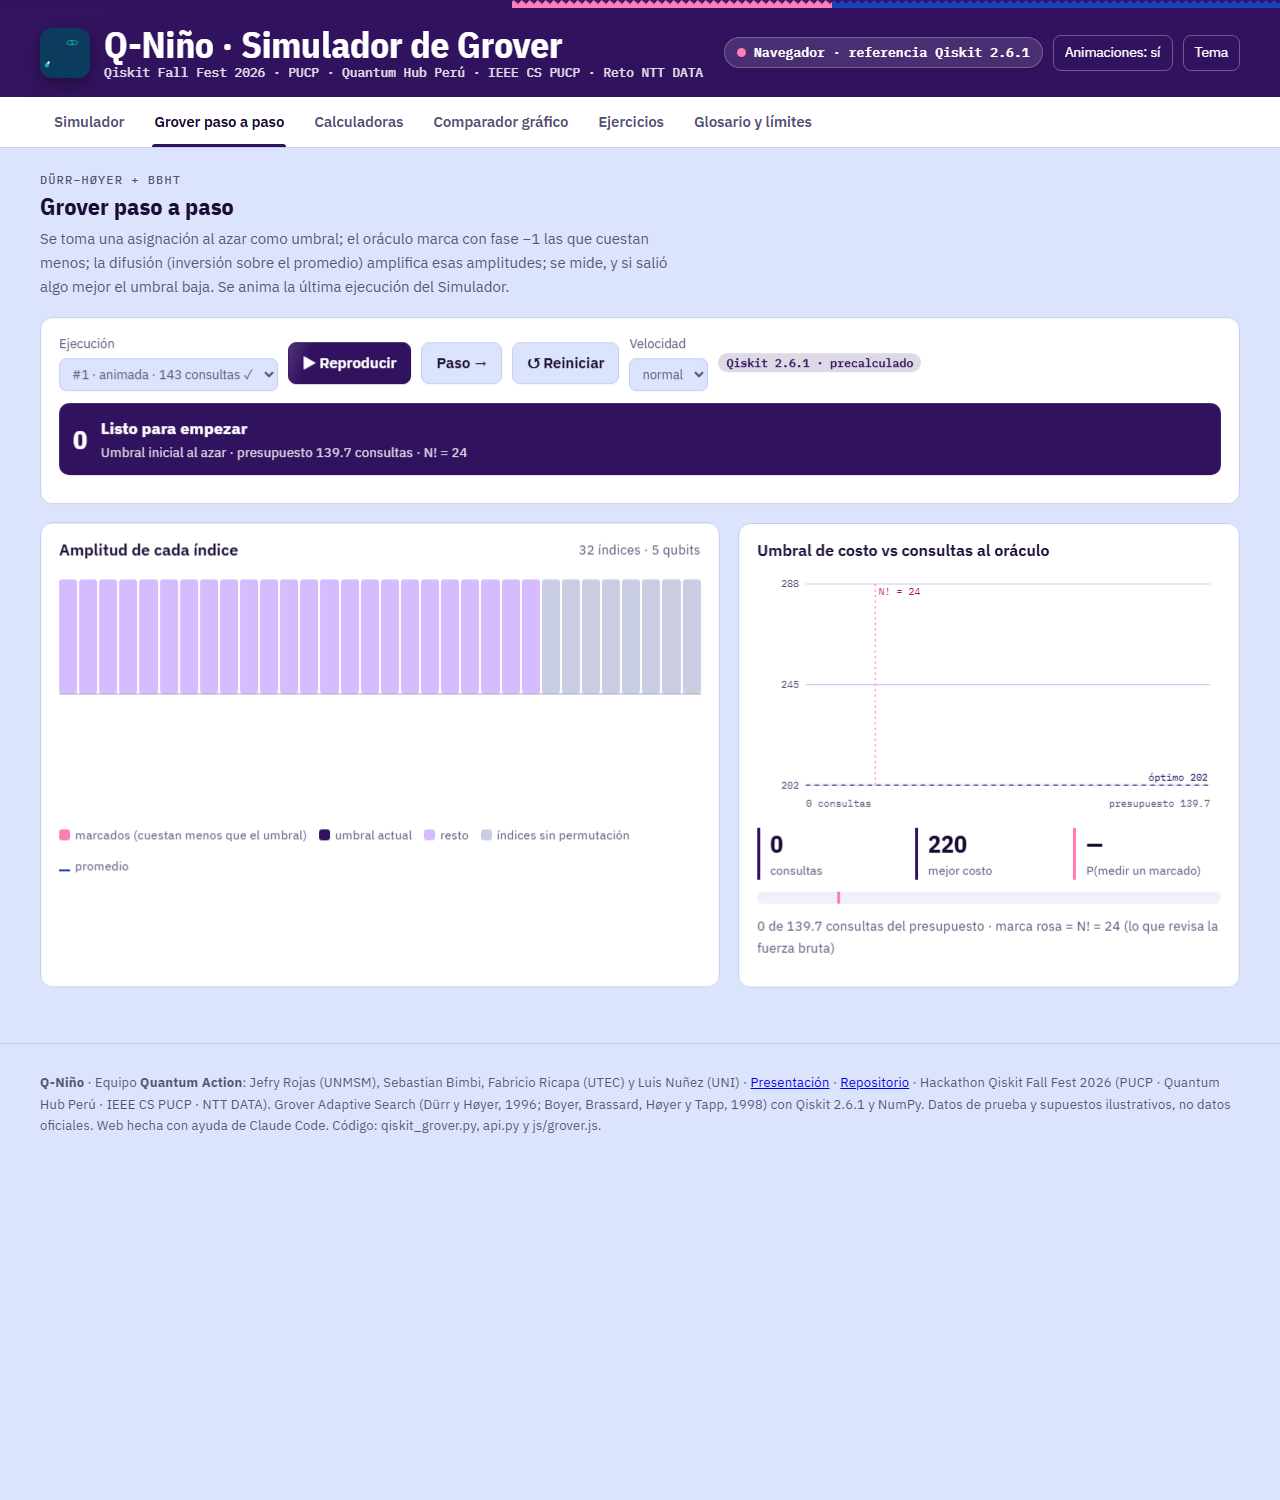
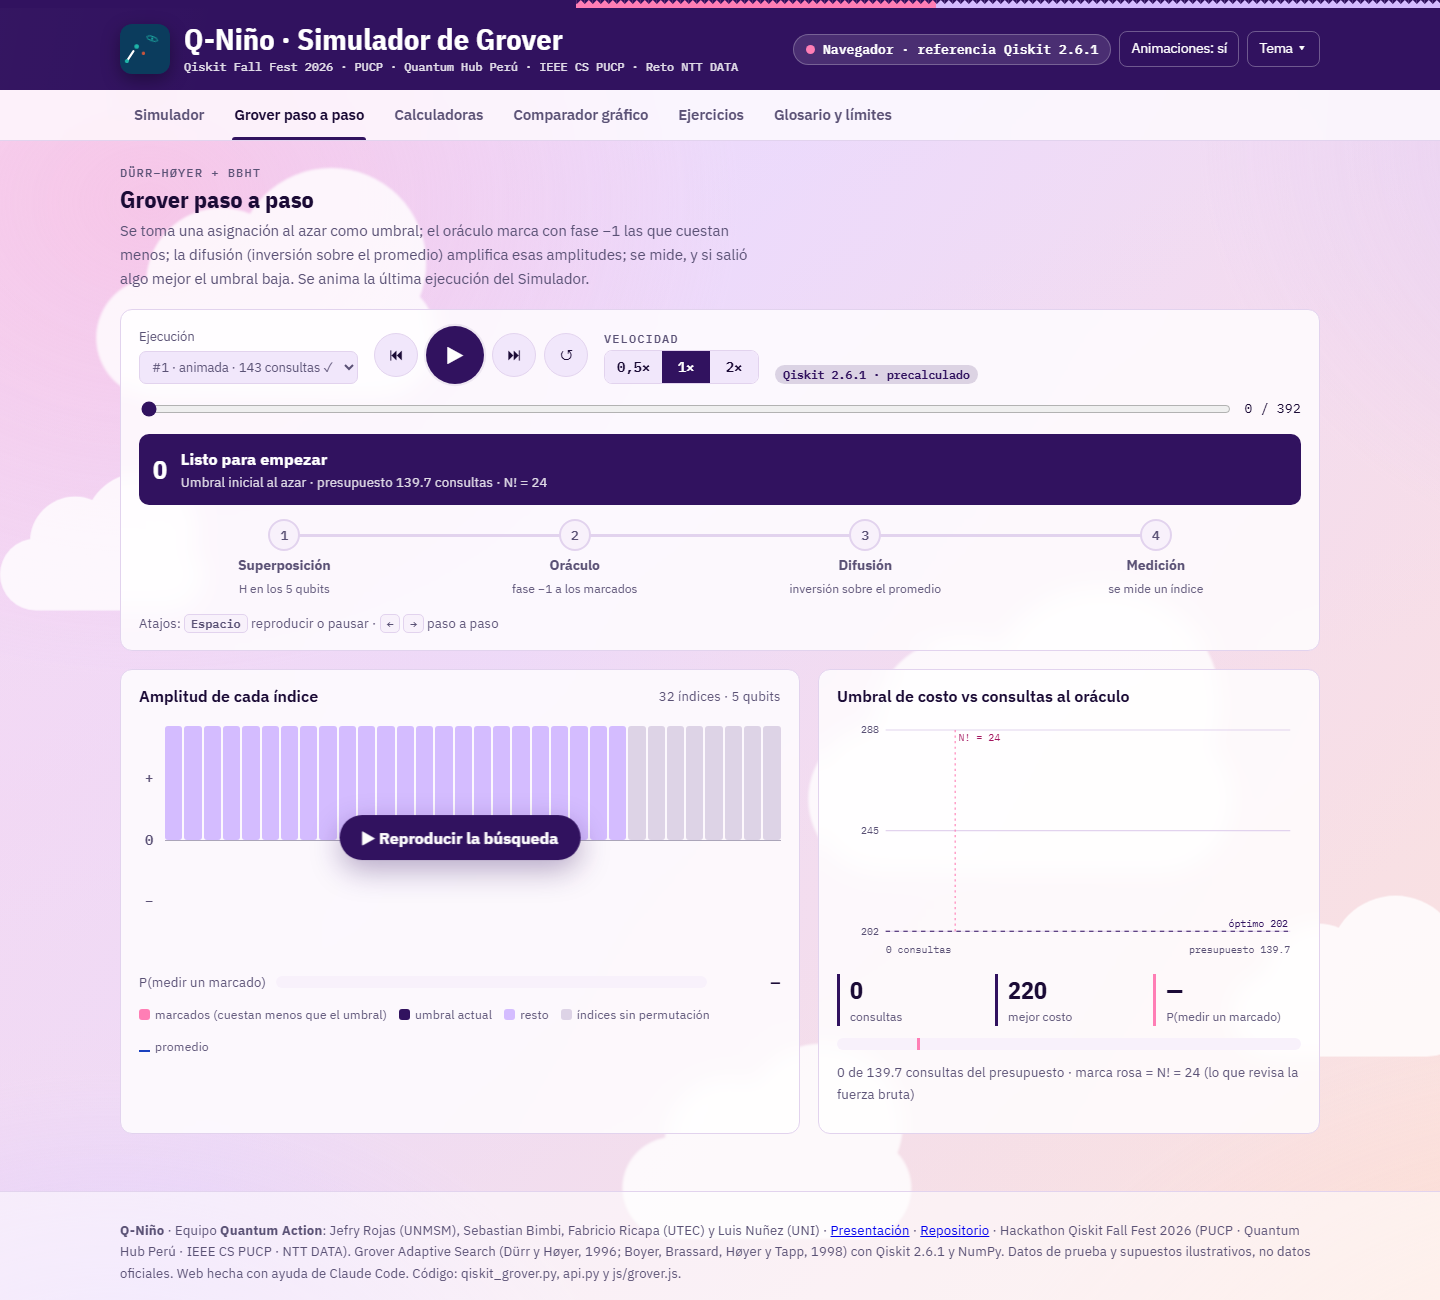
README: capturas y descripción del diseño nuevo

diff --git a/README.md b/README.md
@@ -277,14 +277,16 @@ Qiskit 2.6.1, semilla 42, 10 ejecuciones por N y sin parada anticipada:
 
 | Sección | Qué permite |
 |---|---|
-| **Simulador** | Sin escribir nada: elegir N (3–6), brigadas y zonas de listas, y ajustar cada celda de F y D con un deslizador o atajos (Baja, Media, Alta). D se puede estimar desde el mapa. Semilla y repeticiones también se eligen de listas. Cada cambio frente a los datos cargados se marca en rosa y se registra («F[Médica, Rescate]: 9 → 14»). Muestra el resultado, el mapa de la costa y los pasos de la solución |
-| **Grover paso a paso** | Anima cada etapa (superposición → oráculo → difusión → medición) con las amplitudes de cada índice, la línea del promedio y la evolución del umbral frente a las consultas |
+| **Simulador** | Sin escribir nada: elegir N (3–6) con botones, brigadas y zonas de listas, y ajustar cada celda de F y D con un deslizador o atajos (Baja · Media · Alta, Cerca · Media · Lejos). Las matrices son mapas de calor y la pareja simétrica cambia sola. D se puede estimar desde el mapa. Cada cambio frente a los datos cargados se marca en rosa y se registra («F[Médica, Rescate]: 9 → 14»). Al lado, un **mapa real de OpenStreetMap** (Leaflet) con las zonas y las rutas entre brigadas, y datos clave: par más coordinado, tramo más largo, zonas más alejadas y costo. El panel de resultado muestra el veredicto, los indicadores, las parejas brigada → zona y la línea de tiempo del umbral |
+| **Grover paso a paso** | Reproductor con ⏮ ▶ ⏭ ↺, barra para avanzar o retroceder, velocidad (0,5× · 1× · 2×) y atajos de teclado. Una barra de etapas (superposición → oráculo → difusión → medición) marca dónde va; se ven las amplitudes de cada índice con el promedio, la probabilidad de medir un marcado y la escalera del umbral frente a las consultas |
 | **Calculadoras** | Costo de una asignación (desglose por pares), qubits y presupuesto para cualquier N, iteraciones óptimas de Grover (simulación frente a sin²((2j+1)θ)) y conversor índice ↔ asignación |
-| **Comparador gráfico** | N! frente al presupuesto de Grover frente a las consultas medidas, en escala logarítmica hasta N = 14 |
+| **Comparador gráfico** | Cuatro datos clave (cruce en N = 7, ventaja en N = 14, aciertos medidos, qubits simulados); N! frente al presupuesto de Grover y las consultas medidas en escala logarítmica hasta N = 14, con la zona de ventaja y detalle al pasar el mouse; un gráfico de «cuántas veces menos consulta Grover» y las filas de resultados medidos con Qiskit |
 | **Ejercicios** | Casos para cargar con un clic: el caso N = 3 de la guía, los 4 casos verificados con Qiskit y los casos qap10 (pendientes) |
-| **Glosario y límites** | Términos, fórmulas, uso de Qiskit, el circuito impreso por Qiskit y las limitaciones |
+| **Glosario y límites** | Términos, el **diagrama del circuito** de una iteración de Grover (H → oráculo → difusión) con sus pasos, **fórmulas interactivas** (un deslizador de N recalcula N!, qubits, presupuesto e iteraciones), uso de Qiskit, el circuito impreso por Qiskit y las limitaciones |
 
 <p align="center"><img src="docs/img/05_web_animacion.png" width="49%" alt="Grover paso a paso"> <img src="docs/img/05_web_calculadoras.png" width="49%" alt="Calculadoras"></p>
+<p align="center"><img src="docs/img/06_web_glosario.png" width="49%" alt="Glosario con el circuito y las fórmulas interactivas"> <img src="docs/img/06_web_ejercicios.png" width="49%" alt="Ejercicios"></p>
+<p align="center"><img src="docs/img/06_web_oscuro.png" width="80%" alt="Simulador en modo oscuro"><br><em>Simulador con el tema Qiskit Fall Fest en modo oscuro</em></p>
 
 **Arquitectura:**
 
@@ -302,11 +304,11 @@ El indicador de la cabecera dice siempre qué motor calculó el resultado:
 - **«Qiskit precalculado»:** los datos originales, verificados con Qiskit (`datos.js`).
 - **«Navegador»:** en Vercel, si se editan los datos, una réplica en JavaScript del mismo algoritmo recalcula al instante. Los resultados oficiales salen de Qiskit.
 
-**Diseño:** paleta tomada del arte oficial del Qiskit Fall Fest 2026: fondo lavanda (`#DBE4FC`), rosa de la insignia (`#FF7EB5`), morado de la pastilla «Quantum» (`#31125F`), azul del ala (`#1A41BF`) y lila (`#D4BCFF`), con la tipografía IBM Plex. La identidad peruana se ve en la banda textil y el mapa de la costa. Los colores están en el primer bloque de `css/styles.css`.
+**Diseño:** paleta tomada del arte oficial del Qiskit Fall Fest 2026: rosa de la insignia (`#FF7EB5`), morado de la pastilla «Quantum» (`#31125F`) y lila (`#D4BCFF`), con la tipografía IBM Plex. El fondo es un degradado pastel (lila, rosa y durazno) que cambia de tono lentamente, con nubes que se desplazan. La cabecera va en una sola fila: logo y título a la izquierda; motor, animaciones y tema a la derecha. La identidad peruana se ve en la banda textil y el mapa de la costa. Los colores están en el primer bloque de `css/styles.css`.
 
 **Temas:** el botón «Tema ▾» de la cabecera ofrece 9 temas: Qiskit Fall Fest (por defecto, automático según el sistema), Fall Fest claro, Fall Fest oscuro, Andino, Atardecer, Lavanda, Menta, Noche cuántica y Alto contraste. La elección se recuerda en el navegador.
 
-**Logo y animaciones:** el logo (una ruta entre montañas con un qubit en la cumbre, `img/logo.svg`) se dibuja al cargar y su qubit orbita. Hay transiciones al cambiar de sección, tarjetas que entran en cascada, contadores en los resultados, un destello en cada celda editada, el mapa que se enciende al resolver y un pulso en cada etapa de Grover. Están activadas por defecto. El botón **«Animaciones»** de la cabecera las apaga para quien prefiera menos movimiento, y la elección se recuerda.
+**Logo y animaciones:** el logo (una ruta entre montañas con un qubit en la cumbre, `img/logo.svg`) se dibuja al cargar y sigue animándose siempre: la ruta se recorre y el qubit orbita. Hay transiciones al cambiar de sección, tarjetas que entran en cascada, contadores en los resultados, un destello en cada celda editada, el mapa que se enciende al resolver y un pulso en cada etapa de Grover. Están activadas por defecto. El botón **«Animaciones»** de la cabecera las apaga para quien prefiera menos movimiento, y la elección se recuerda.
 
 ## 9. Cómo ejecutarlo
 
